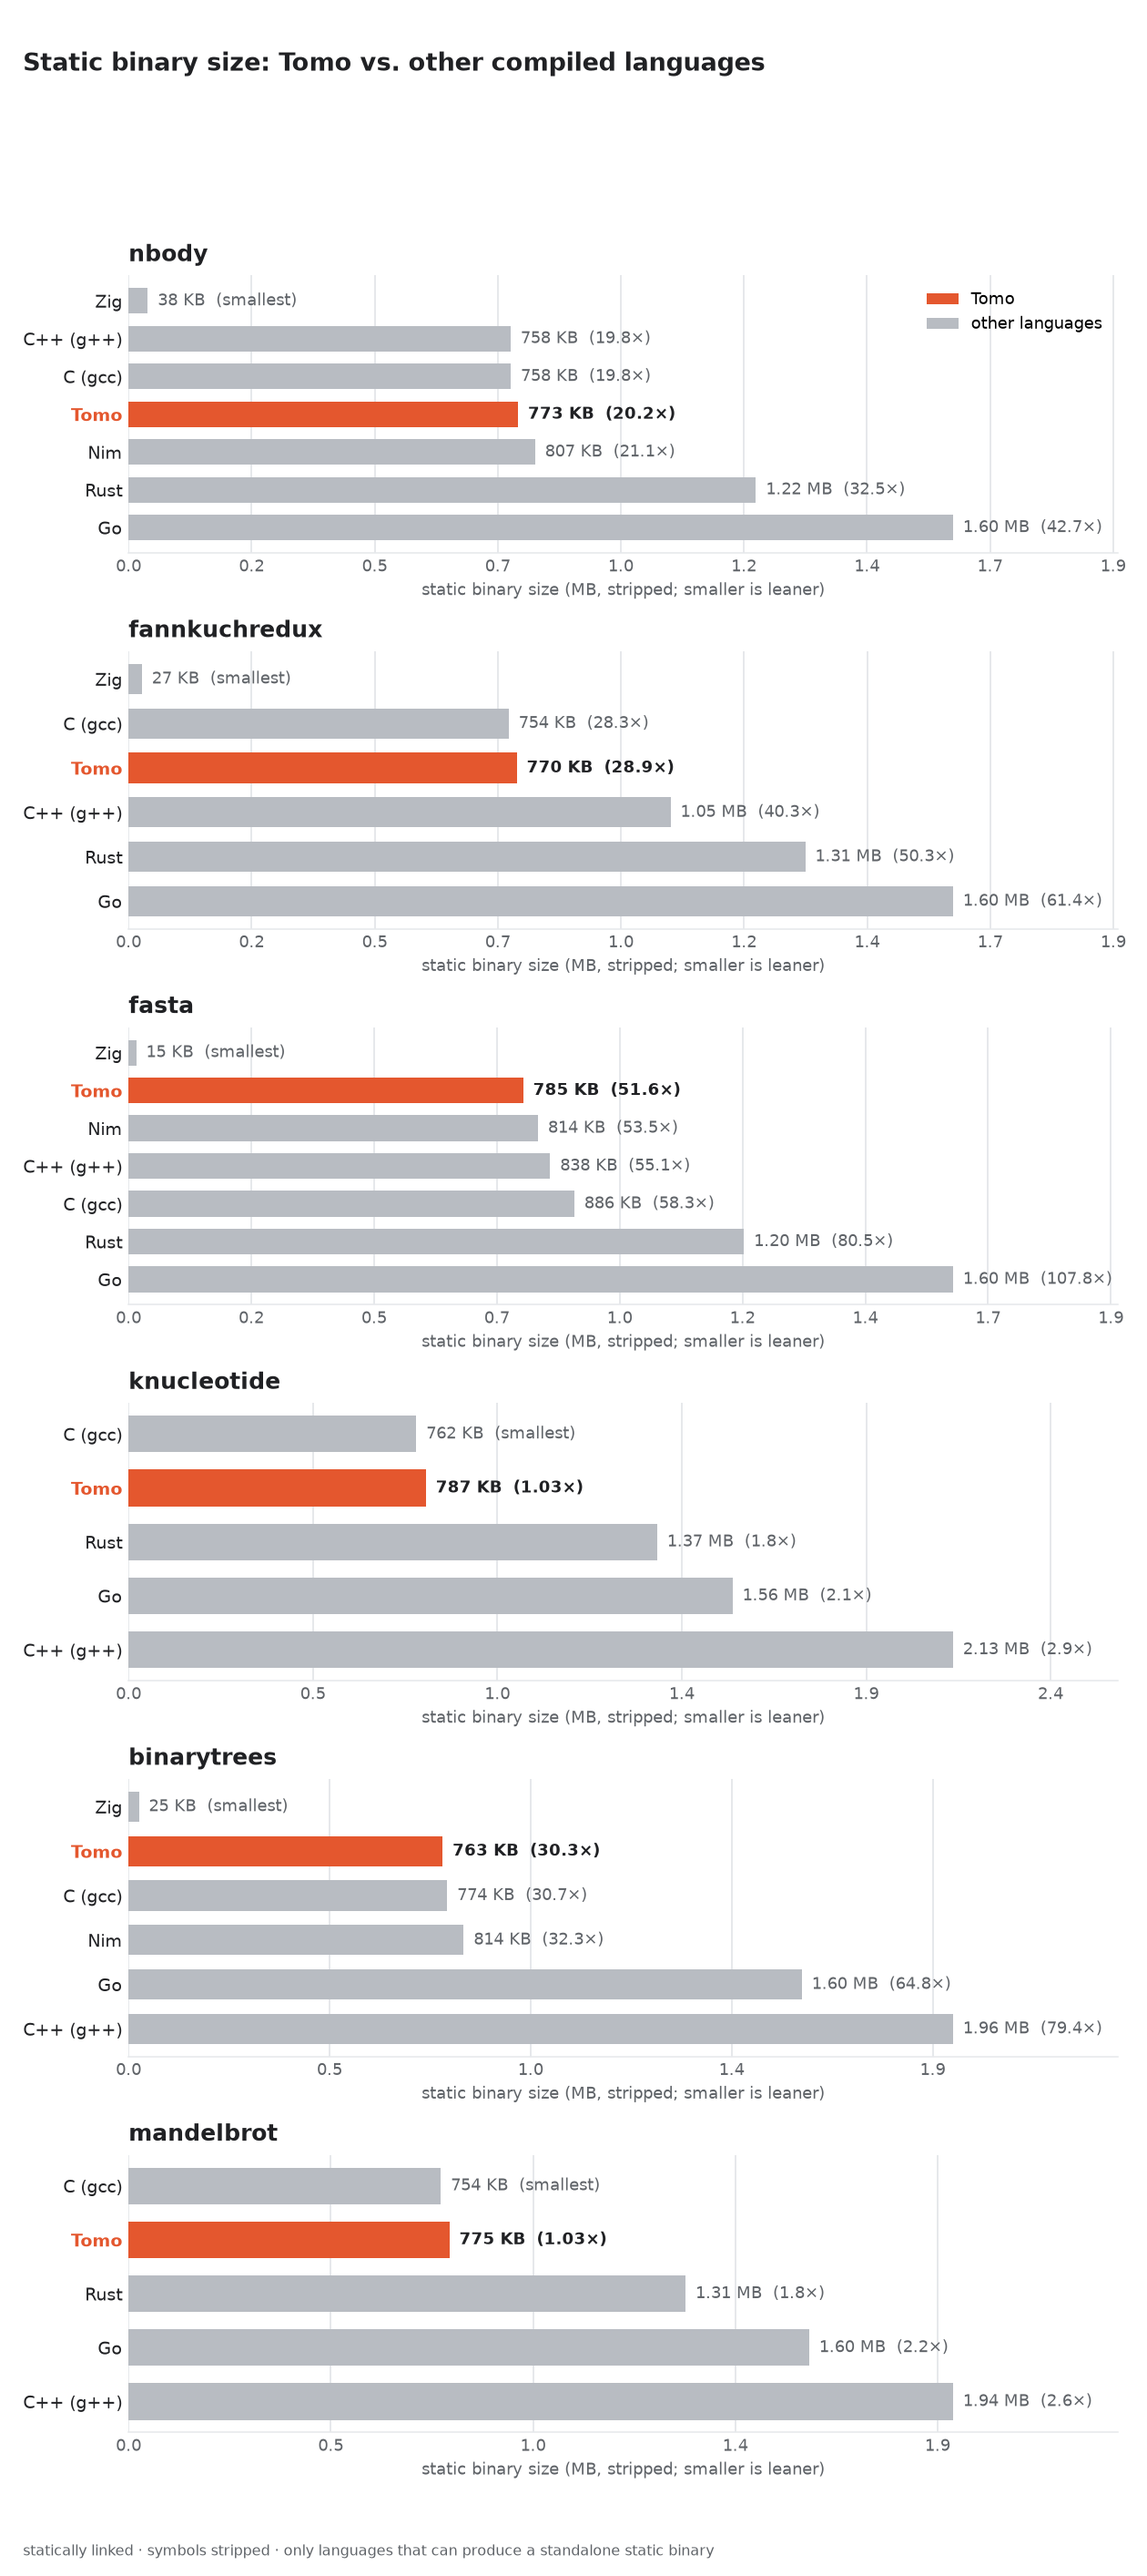
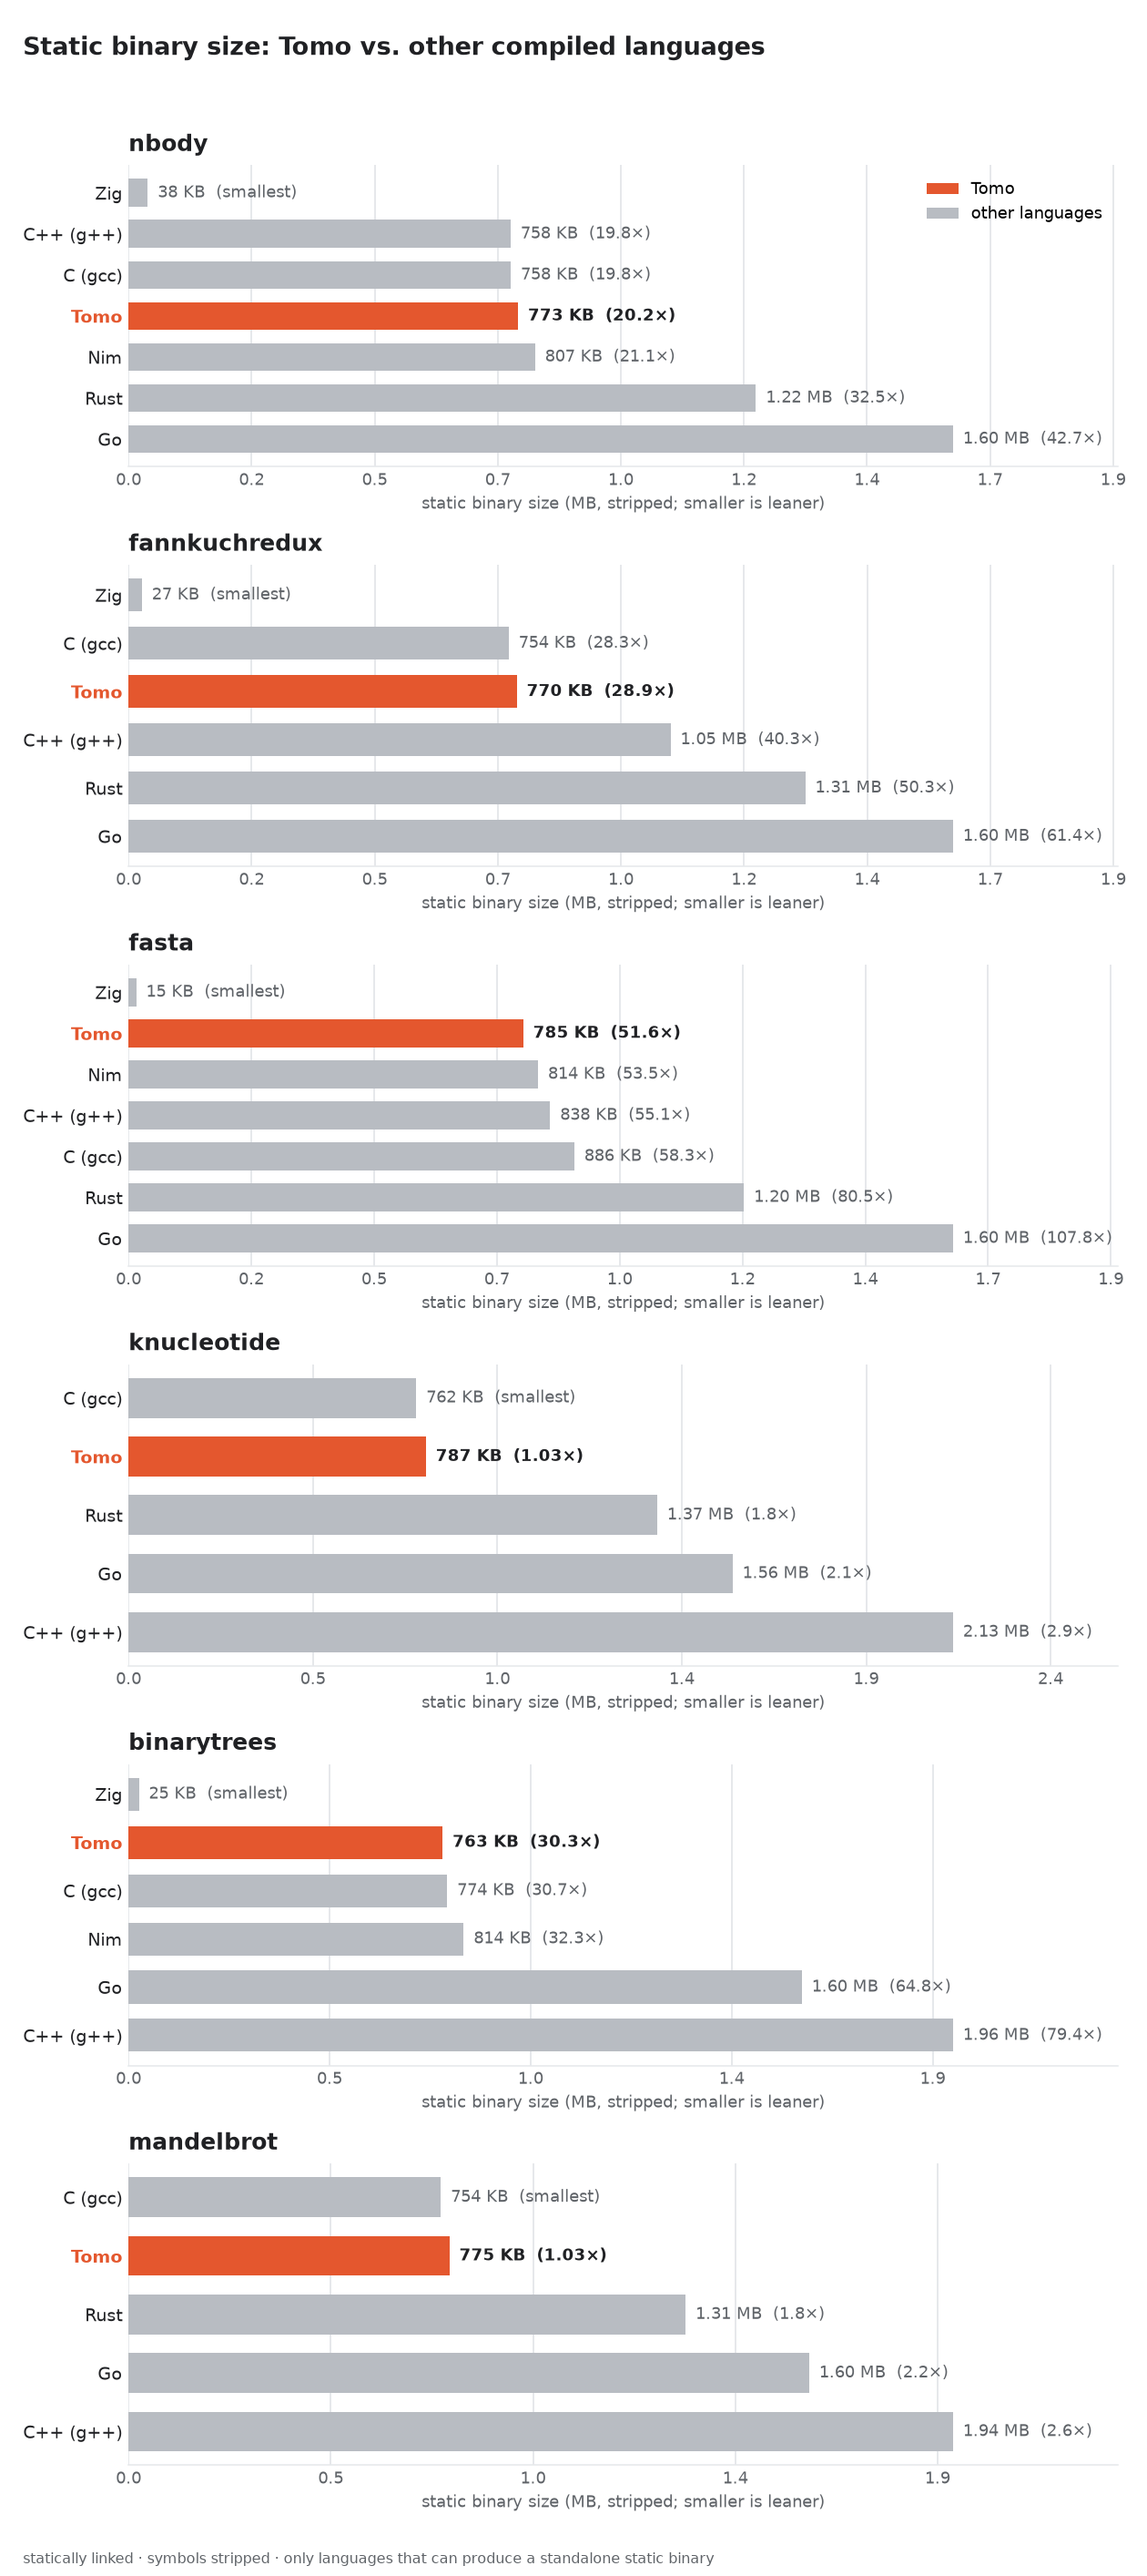
Close the gap under the size chart's title
main_sizes() reserved its title band as a fixed *fraction* of figure
height (rect top 0.93), but the figure grows with the panel count, so
that 7% was ~1.4in of white above the first panel. main() already
reserves fixed inches converted to a fraction for exactly this reason;
main_sizes() now does the same.

Claude-Session: https://claude.ai/code/session_01L2ZhCMU5YGorDXMDhRSyZe

diff --git a/benchmarks/plot.py b/benchmarks/plot.py
@@ -242,7 +242,8 @@ def main_sizes(path, out):
         print("no benchmark has enough languages to chart")
         return
     n = len(benches)
-    fig, axes = plt.subplots(n, 1, figsize=(9, 1.0 + 3.2 * n), squeeze=False)
+    fig_h = 1.0 + 3.2 * n
+    fig, axes = plt.subplots(n, 1, figsize=(9, fig_h), squeeze=False)
     fig.patch.set_facecolor("white")
     for ax, (bname, block) in zip(axes[:, 0], benches):
         ax.set_facecolor("white")
@@ -253,13 +254,19 @@ def main_sizes(path, out):
     ]
     axes[0, 0].legend(handles=legend, loc="upper right", frameon=False,
                       fontsize=9, borderaxespad=0.6)
+    # Title/footer bands are fixed heights (inches converted to figure
+    # fractions), the same as main(): a fixed *fraction* opens a bigger and
+    # bigger gap under the title as the figure grows with the panel count.
+    top = 1.0 - 0.55 / fig_h
+    bottom = 0.35 / fig_h
     fig.suptitle("Static binary size: Tomo vs. other compiled languages",
-                 x=0.02, ha="left", fontsize=14, fontweight="bold", color=INK)
-    fig.text(0.02, 0.008,
+                 x=0.02, y=1.0 - 0.28 / fig_h, ha="left", va="top",
+                 fontsize=14, fontweight="bold", color=INK)
+    fig.text(0.02, 0.10 / fig_h,
              "statically linked · symbols stripped · only languages that can "
              "produce a standalone static binary",
              ha="left", fontsize=8, color=MUTED)
-    fig.tight_layout(rect=[0, 0.03, 1, 0.93])
+    fig.tight_layout(rect=[0, bottom, 1, top])
     svg = os.path.join(HERE, out + ".svg")
     png = os.path.join(HERE, out + ".png")
     fig.savefig(svg)
